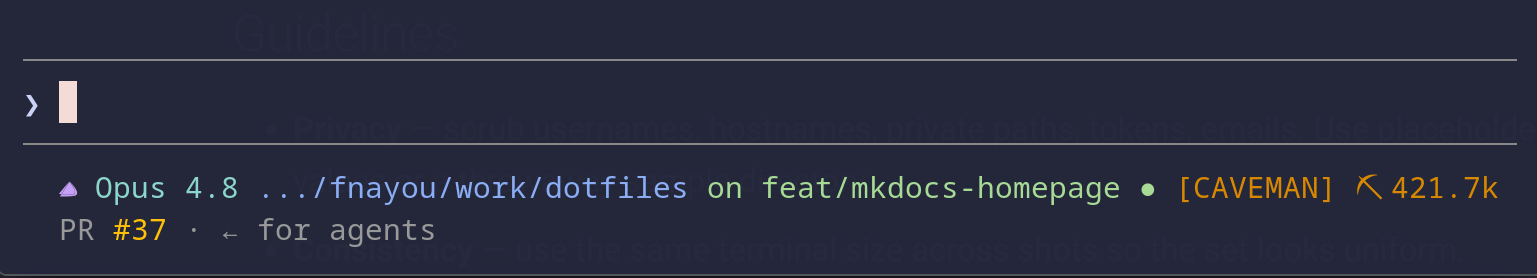
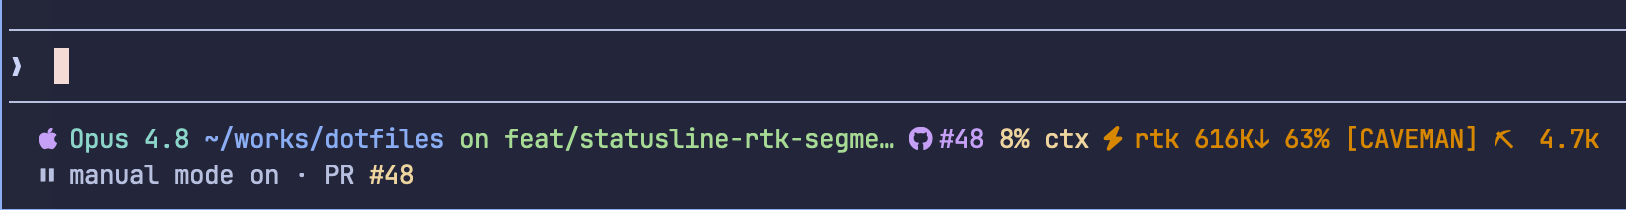
docs: sync statusline segment lists with PR/MR + rtk savings
The website and guide segment enumerations still listed the pre-feature set
(OS · model · path · git · ctx · caveman). Update them to include the PR/MR
segment and the rtk savings segment added on this branch:

- docs/guides/claude-setup.md — segment sentence
- README.md — claude package table row
- website/screenshots.md, website/features/packages.md — image alt text

The screenshot itself (website/assets/images/claude-statusline.png) still shows
the old segments and needs regenerating out-of-band.

diff --git a/README.md b/README.md
@@ -38,7 +38,7 @@ Each package is self-contained and carries its own README. `stow/macos/`, `stow/
 | **alacritty** | Alacritty terminal — window, font, keybinds, Catppuccin Macchiato theme | [README](stow/common/alacritty/README.md) | [guide](docs/guides/alacritty-setup.md) |
 | **bat** | bat pager — style, wrap, paging, Catppuccin Macchiato theme | [README](stow/common/bat/README.md) | [guide](docs/guides/bat-setup.md) |
 | **btop** | btop resource monitor — theme, background, truecolor, vim keys, Catppuccin Macchiato theme | [README](stow/common/btop/README.md) | [guide](docs/guides/btop-setup.md) |
-| **claude** | Claude Code status line — OS · model · path · git · context % segments, mirrors the Catppuccin Macchiato prompt | [README](stow/common/claude/README.md) | [guide](docs/guides/claude-setup.md) |
+| **claude** | Claude Code status line — OS · model · path · git · PR/MR · context % · rtk savings segments, mirrors the Catppuccin Macchiato prompt | [README](stow/common/claude/README.md) | [guide](docs/guides/claude-setup.md) |
 | **eza** | eza `ls` replacement — Catppuccin Macchiato (Blue) color theme | [README](stow/common/eza/README.md) | [guide](docs/guides/eza-setup.md) |
 | **git** | Portable Git config — settings, aliases, global ignore (no secrets) | [README](stow/common/git/README.md) | [guide](docs/guides/git-setup.md) |
 | **herdr** | Herdr agent multiplexer — theme, terminal, UI, toast | [README](stow/common/herdr/README.md) | [guide](docs/guides/herdr-setup.md) |

diff --git a/docs/guides/claude-setup.md b/docs/guides/claude-setup.md
@@ -13,9 +13,9 @@ The `stow/common/claude/` package manages **one** file, stowed into `~/.claude/`
 |---|---|---|
 | `stow/common/claude/.claude/statusline-command.sh` | `~/.claude/statusline-command.sh` | Status line script (mirrors the Oh My Posh Catppuccin Macchiato theme) |
 
-The script renders these segments: **OS icon · model · path · git branch+status · context % ·
-optional caveman badge**. Its colors are taken from the `omp` package theme — `omp` remains the
-theme source of truth.
+The script renders these segments: **OS icon · model · path · git branch+status · PR/MR ·
+context % · optional rtk savings · optional caveman badge**. Its colors are taken from the `omp`
+package theme — `omp` remains the theme source of truth.
 
 ### What this package deliberately does NOT manage
 

diff --git a/website/features/packages.md b/website/features/packages.md
@@ -61,7 +61,7 @@ when deep, and the **PR/MR** segment shows the open request for the current bran
 `gh` (`#` sigil) or GitLab via `glab` (`!` sigil), detected from the `origin` remote and cached in
 the background. Set `STATUSLINE_NERD_FONT=0` to swap the forge glyph for an ASCII `PR`/`MR` label.
 
-![Claude Code status line showing OS, model, path, git, and context segments](../assets/images/claude-statusline.png)
+![Claude Code status line showing OS, model, path, git, PR/MR, context, and rtk savings segments](../assets/images/claude-statusline.png)
 *Claude Code status line integrated into the terminal workflow.*
 
 Two **optional** trailing segments light up only when their tool is present — each is

diff --git a/website/screenshots.md b/website/screenshots.md
@@ -17,7 +17,7 @@ pages; this page collects them in one place.
 ![Neovim editing a file with the Catppuccin Macchiato colorscheme](assets/images/nvim-editor.png)
 *Neovim editing inside the dotfiles repository.*
 
-![Claude Code status line showing OS, model, path, git, and context segments](assets/images/claude-statusline.png)
+![Claude Code status line showing OS, model, path, git, PR/MR, context, and rtk savings segments](assets/images/claude-statusline.png)
 *Claude Code status line integrated into the terminal workflow.*
 
 ![Herdr multiplexer session with panes and agent labels](assets/images/herdr-session.png)
